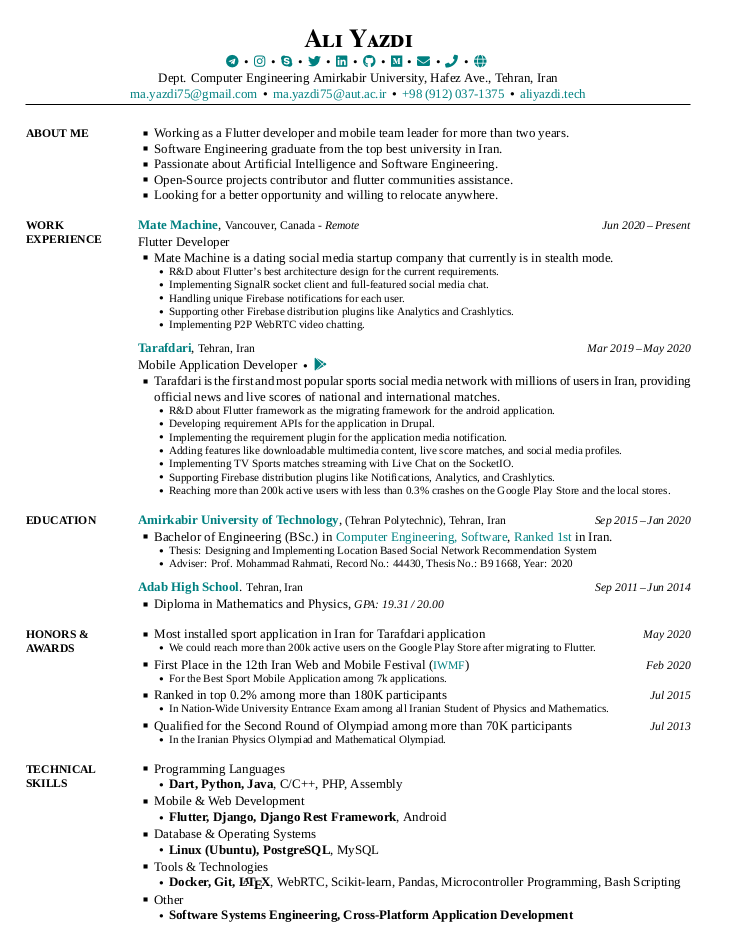
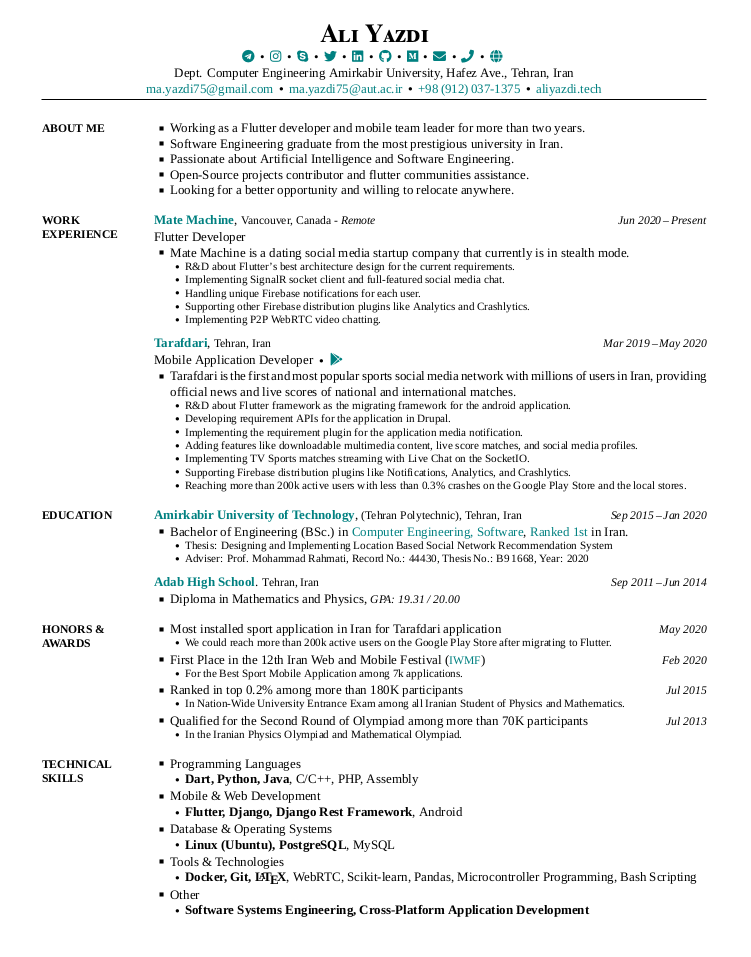
update best

diff --git a/AYazdiCV.tex b/AYazdiCV.tex
@@ -137,7 +137,7 @@ Dept. Computer Engineering Amirkabir University, Hafez Ave., Tehran, Iran
 \BulletItem
 Working as a Flutter developer and mobile team leader for more than two years.
 \BulletItem
-Software Engineering graduate from the top best university in Iran.
+Software Engineering graduate from the most prestigious university in Iran.
 \BulletItem
 Passionate about Artificial Intelligence and Software Engineering.
 \BulletItem
